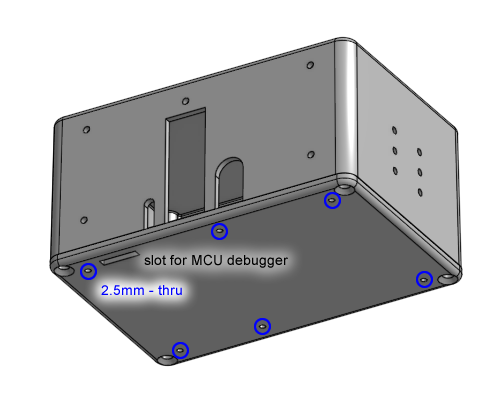
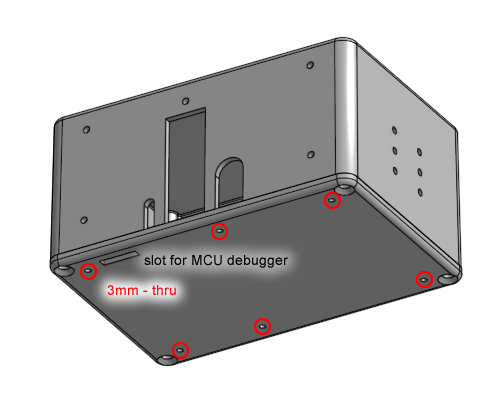
build guide doc update

diff --git a/doc/build-guide-13mhz/build-guide.md b/doc/build-guide-13mhz/build-guide.md
@@ -62,7 +62,7 @@ Add the custom cut copper fins to the buck converter heat dissipation area.  [Cl
 
 Do not make the fins block the area where the brass standoff and screw is supposed to go! We are soldering on the fins first before the standoffs are attached because it is easier to solder this way, without the huge thermal mass of the standoff.
 
-Attach all brass standoffs (M2.5 thread, 6mm long, 4.5mm hex) to the bottom of the circuit board, using M2.5 x 4mm screws. Align the one of the flat faces of the hexagonal standoff parallel to the nearest edge of the PCB. Use low or medium strength thread-locker if available. Using tooth-lock washers is also optional and can help.
+Attach all brass standoffs (M2.5 thread, 6mm long, 4.5mm hex) to the bottom of the circuit board, using M2.5 x 4mm screws. Use low or medium strength thread-locker if available. Using tooth-lock washers is also optional and can help.
 
 ![](./imgs/standoffs_3d.png)
 
@@ -217,6 +217,10 @@ At this point, you may apply conformal coating over the circuit board if you wis
 Fasten PCB to bottom lid, using the brass standoffs installed previously and M2.5 x 4mm screws.
 
 ![](./imgs/bottom_lid_screws_3d.png)
+
+**Addendum:** you might need to grind away some of the metal too close to the standoffs. See the following photo:
+
+<!-- TODO photo -->
 
 Assemble cooling fan and the air intake grille to the box. See diagram for details.
 

diff --git a/doc/build-guide-iron-stand.md b/doc/build-guide-iron-stand.md
@@ -19,6 +19,8 @@ The pieces are named:
 
 The files are all [here in this directory](../mechanical/stand)
 
+There are two versions: 16mm for handpieces with a 16mm diameter flange (Metcal, Radio Thermal). 18mm for handpieces with a 18mm diameter flange (Thermaltronics). Only one piece, the handle-rest, has this variation.
+
 It can house cylindrical magnets that are 1/2" in diameter and 1/4" thick, magnetized axially. (KJ Magnetics D84, D84AH, D84B-N52, etc)
 
 The design has the strike plate intentionally taking possible hits from the hot soldering iron tip, preventing the plastic from getting melted accidentally. However it is still advised to cover exposed plastic surfaces with aluminum foil tape for added protection.

diff --git a/doc/build-guide-lite-470khz/build-guide-lite.md b/doc/build-guide-lite-470khz/build-guide-lite.md
@@ -70,7 +70,7 @@ Assemble the MOSFET together with the heatsinks according to the diagrams:
 
 ![](imgs/mosfet_heatsink_stack.png)
 
-The bottom 3 fins of the heatsink needs to be bent to avoid the 12V buck converter. You must do this before soldering.
+The bottom 3 fins of the heatsink needs to be bent to avoid the 12V buck converter, use a gentle curved bend to avoid snapping the aluminum. There's 1 bottom fin that needs to be snapped off so it doesn't hit the SMD inductor. You must do this before soldering.
 
 ![](imgs/heatsink_inner_3fins_bent.png)
 
